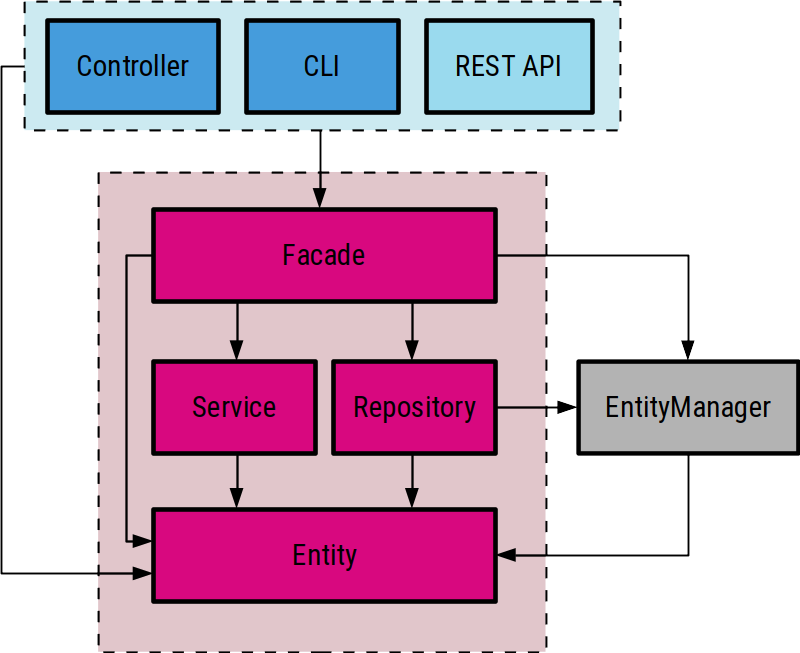
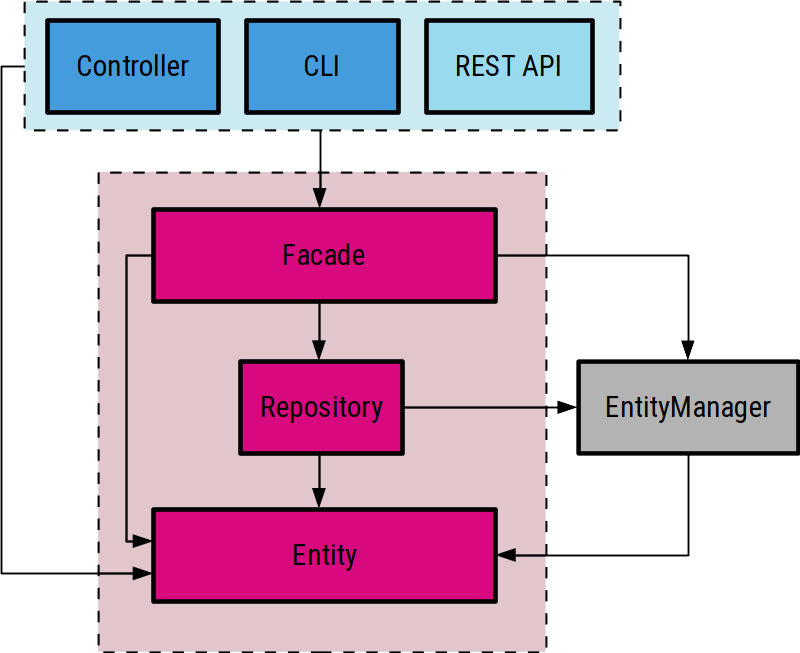
removed documentation of model service layer
- also removed service from model-architecture.png

Changed region(s): [[0.1875, 0.4594, 0.625, 0.7657]]

diff --git a/docs/introduction/basics-about-model-architecture.md b/docs/introduction/basics-about-model-architecture.md
@@ -1,6 +1,6 @@
 # Basics About Model Architecture
 
-In this article you will learn about [entities](#entity), [facades](#facade), [repositories](#repository), and [services](#service) and their mutual relations.
+In this article you will learn about [entities](#entity), [facades](#facade), [repositories](#repository) and their mutual relations.
 
 ## Basics about the model
 
@@ -13,14 +13,14 @@ Domain model of Shopsys Framework is located in [`FrameworkBundle/Model`](https:
 
 Code belonging to the same feature is grouped together (eg. `Cart` and `CartItem`). Names of classes and methods are based on real world vocabulary to be more intuitive (eg. `OrderHashGenerator` or `getSellableProductsInCategory()`).
 
-Model is divided into four parts: Entity, Repository, Service, and Facade. There is `EntityManager` to access the database.
+Model is divided into three parts: Entity, Repository and Facade. There is `EntityManager` to access the database.
 
 ![model architecture schema](img/model-architecture.png 'model architecture schema')
 
 ## Entity
 Is class encapsulating data. All entities are persisted by Doctrine ORM. One entity class usually represents one table in the database and one instance of the entity represents one row in the table. The entity is composed of fields, which can be mapped to columns in the table. Doctrine ORM annotations are used to define the details about the database mapping (types of columns, relations, etc.).
 
-Entities are inspired by Rich Domain Model. That means entity contains not only getters and setters, but also some use case methods with basic domain logic (e.g. `Product::changeVat()` sets vat and marks product for price recalculation). The entity cannot depend on any other class.
+Entities are inspired by Rich Domain Model. That means entity is the place where domain logic belongs (e.g. `Product::changeVat()` sets vat and marks product for price recalculation). The entity cannot depend on any other class.
 
 Entities can be used by all layers of the model and even outside of model (eg. controller or templates).
 
@@ -141,7 +141,7 @@ class CartItemRepository
 *Note: Repositories in Shopsys Framework wrap Doctrine repositories. This is done in order to provide only useful methods with understandable names instead of generic API of Doctrine repositories.*
 
 ## Facade
-Facades are a single entry-point into the model. That means you can use the same method in your controller, CLI command, REST API, etc. with the same results. All methods in facade should have single responsibility without any complex logic. Every method has a single use case and does not contain any business logic only sequence of calls of repositories and services methods.
+Facades are a single entry-point into the model. That means you can use the same method in your controller, CLI command, REST API, etc. with the same results. All methods in facade should have single responsibility without any complex logic. Every method has a single use case and does not contain any business logic only sequence of calls of entities and repositories methods.
 
 Facades as entry-point of the model can be used anywhere outside of the model.
 
@@ -162,11 +162,6 @@ class CartFacade
      * @var \Doctrine\ORM\EntityManager
      */
     protected $em;
-
-    /**
-     * @var \Shopsys\FrameworkBundle\Model\Cart\CartService
-     */
-    protected $cartService;
 
     /**
      * @var \Shopsys\FrameworkBundle\Model\Cart\CartFactory
@@ -204,6 +199,7 @@ class CartFacade
         );
         $customerIdentifier = $this->customerIdentifierFactory->get();
         $cart = $this->cartFactory->get($customerIdentifier);
+        // TODO the service will be removed during pahse 4
         $result = $this->cartService->addProductToCart($cart, $customerIdentifier, $product, $quantity);
 
         $this->em->persist($result->getCartItem());
@@ -217,65 +213,7 @@ class CartFacade
 }
 ```
 
-## Service
-Not to be confused with services in Dependency Injection Container. Services are used for operations that do not conceptually belong to any entity. Service should not have any state, should not access any external or global state and neither call methods of other layers (ie. Controller, Facade, Repository, Entity Manager). That means that output of the method will be always same. Services are easy to test and debug thanks to those principles. Any complex business logic should be put into services.
-
-Services should be used only by facades and other services.
-
-### Example
-```php
-// FrameworkBundle/Model/Cart/CartService.php
-
-namespace Shopsys\FrameworkBundle\Model\Cart;
-
-// ...
-
-class CartService
-{
-    /**
-     * @var \Shopsys\FrameworkBundle\Model\Product\Pricing\ProductPriceCalculationForUser
-     */
-    protected $productPriceCalculation;
-
-    /**
-     * @var \Shopsys\FrameworkBundle\Model\Cart\Item\CartItemFactoryInterface
-     */
-    protected $cartItemFactory;
-
-    // ...
-
-    /**
-     * @param \Shopsys\FrameworkBundle\Model\Cart\Cart $cart
-     * @param \Shopsys\FrameworkBundle\Model\Customer\CustomerIdentifier $customerIdentifier
-     * @param \Shopsys\FrameworkBundle\Model\Product\Product $product
-     * @param int $quantity
-     * @return \Shopsys\FrameworkBundle\Model\Cart\AddProductResult
-     */
-    public function addProductToCart(Cart $cart, CustomerIdentifier $customerIdentifier, Product $product, $quantity)
-    {
-        if (!is_int($quantity) || $quantity <= 0) {
-            throw new \Shopsys\FrameworkBundle\Model\Cart\Exception\InvalidQuantityException($quantity);
-        }
-
-        foreach ($cart->getItems() as $cartItem) {
-            if ($cartItem->getProduct() === $product) {
-                $cartItem->changeQuantity($cartItem->getQuantity() + $quantity);
-                $cartItem->changeAddedAt(new DateTime());
-                return new AddProductResult($cartItem, false, $quantity);
-            }
-        }
-
-        $productPrice = $this->productPriceCalculation->calculatePriceForCurrentUser($product);
-        $newCartItem = $this->cartItemFactory->create($customerIdentifier, $product, $quantity, $productPrice->getPriceWithVat());
-        $cart->addItem($newCartItem);
-        return new AddProductResult($newCartItem, true, $quantity);
-    }
-
-    // ...
-
-}
-```
-
 ## Cooperation of layers
-The controller handles the request (eg. saved data from form) and passes data to the facade. The facade receives data from the controller, requests appropriate entities from the repository and (if needed) passes all those data to the service for processing. Service processes data and returns output to the facade, that persist it by entity manager.
-
+The controller handles the request (eg. saved data from form) and passes data to the facade.
+The facade receives data from the controller and requests appropriate entities from the repository.
+Entities and supporting classes (like recalculators, schedulers) processes data and returns output to the facade, that persist it by entity manager.

diff --git a/docs/introduction/automated-testing.md b/docs/introduction/automated-testing.md
@@ -76,7 +76,7 @@ Unit tests in Shopsys Framework are built on [PHPUnit testing framework](https:/
 * test driven development
 
 #### Example:
-See test class `\Tests\FrameworkBundle\Unit\Model\Cart\CartServiceTest` in the `shopsys/framework` package.
+See test class `\Tests\FrameworkBundle\Unit\Model\Cart\CartTest` in the `shopsys/framework` package.
 Notice that test method names describe the tested scenario. Also, notice that each test case focuses just on one specific behavior of the class.
 When a test fails it provides detailed feedback to the developer.
 
